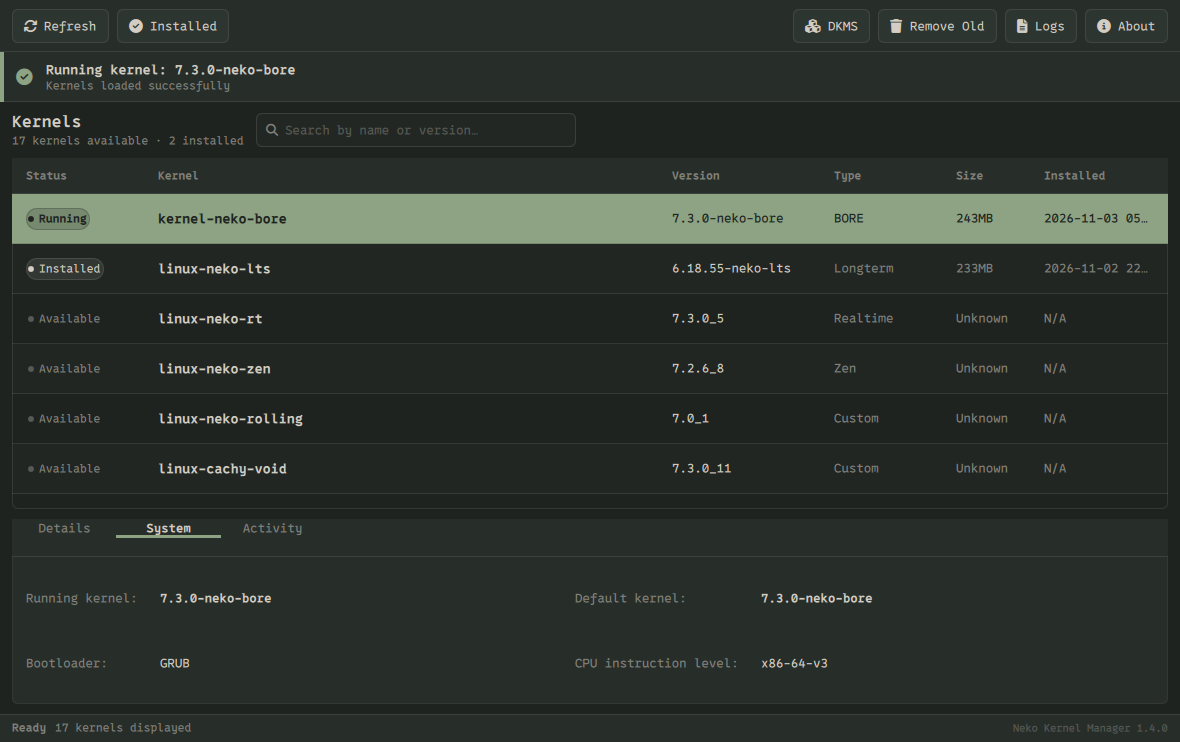
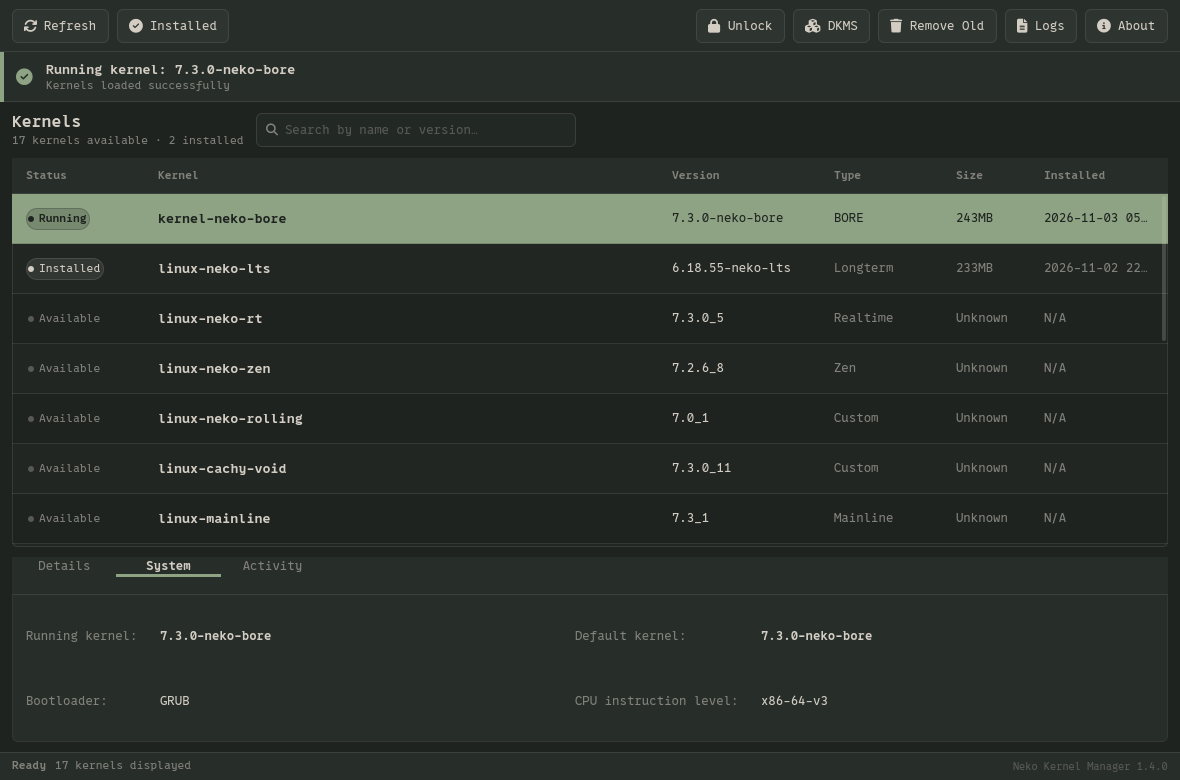
update(docs): update screenshots with DKMS, Activity Log, and About views

diff --git a/README.md b/README.md
@@ -30,19 +30,44 @@ Whether you are running official Void kernels, custom BORE/Zen builds from Neko 
 <p align="center">
   <img src="screenshots/main.png" alt="Neko Kernel Manager - Main View" width="100%" />
 </p>
-
 <p align="center">
-  <em>Main kernel overview: Status badges, repository detection, kernel actions, and instant filtering.</em>
+  <em>Main kernel overview: Status badges (Running / Default / Installed), repository detection, kernel actions, and instant filtering.</em>
 </p>
 
 <br>
 
 <p align="center">
-  <img src="screenshots/system.png" alt="Neko Kernel Manager - System Information" width="100%" />
+  <img src="screenshots/system.png" alt="Neko Kernel Manager - System Tab" width="100%" />
+</p>
+<p align="center">
+  <em>System tab: Active and default GRUB kernel, bootloader, and detected CPU instruction level.</em>
 </p>
 
+<br>
+
 <p align="center">
-  <em>System hardware, bootloader, and active kernel information.</em>
+  <img src="screenshots/dkms.png" alt="Neko Kernel Manager - DKMS Management" width="100%" />
+</p>
+<p align="center">
+  <em>DKMS Module Management: Manage installed out-of-tree modules and install available repository DKMS packages.</em>
+</p>
+
+<br>
+
+<p align="center">
+  <img src="screenshots/logs.png" alt="Neko Kernel Manager - Activity Log" width="100%" />
+</p>
+<p align="center">
+  <em>Activity Log dialog: Real-time timestamped execution terminal with syntax highlighting and log export.</em>
+</p>
+
+<br>
+
+<p align="center">
+  <img src="screenshots/about.png" alt="Neko Kernel Manager - About" width="100%" />
+</p>
+<p align="center">
+  <em>About dialog: Application info and Matecito Dark theme integration.</em>
 </p>
 
 ---
